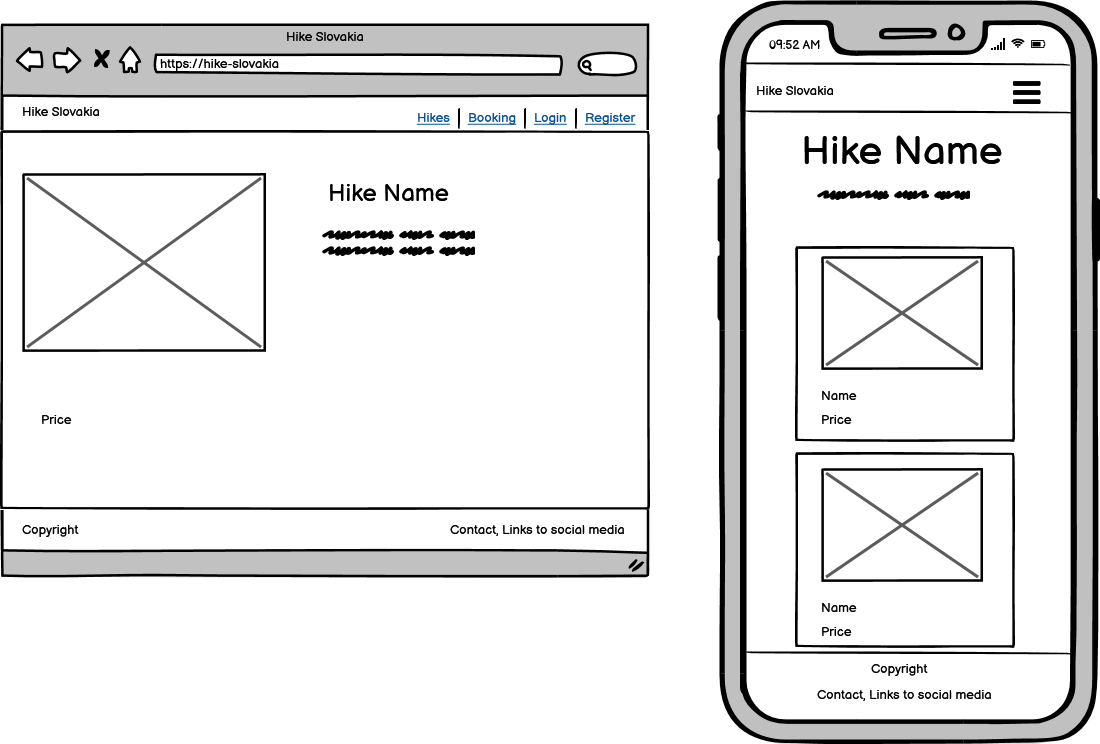
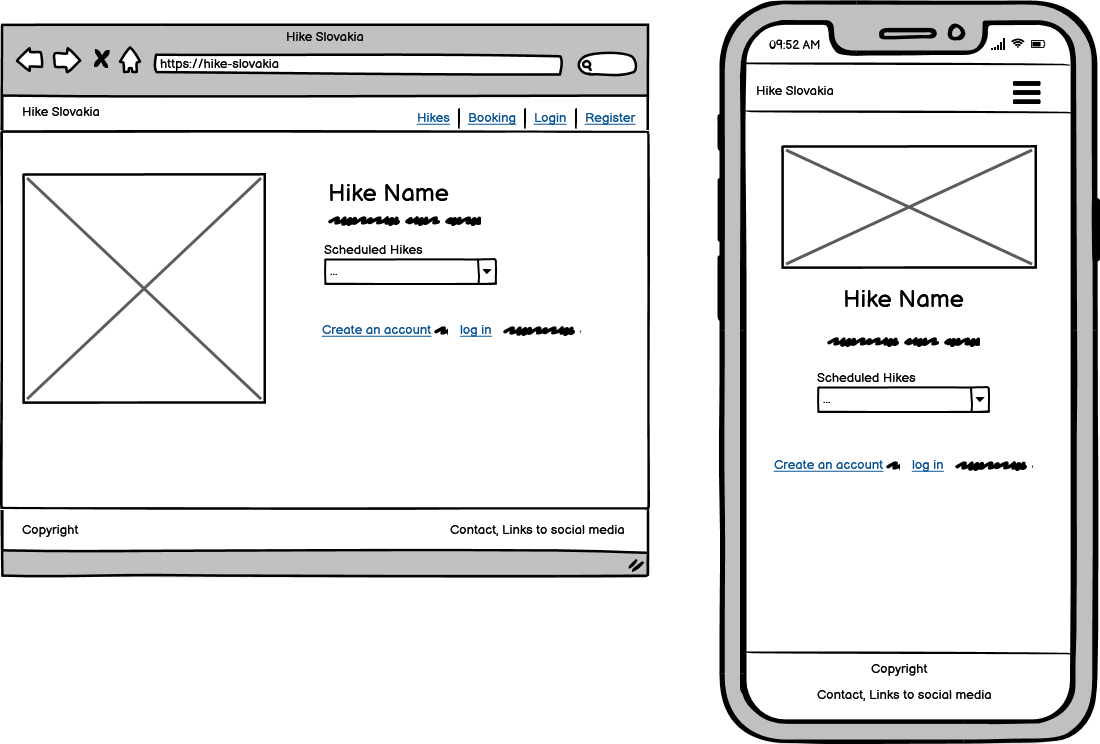
Update README.md - technologies used, upload all wireframes

diff --git a/README.md b/README.md
@@ -5,7 +5,7 @@ The app was built as my fourth milestone project for Diploma in Full Stack Softw
 
 Hike Slovakia is a multi-page eCommerce web application for both visitors of and people living in Slovakia who wish to explore the country and its beautiful hiking destinations. The website offers its users a chance to book onto guided hikes in the region.
 
-You can view the live website [here]( "Hike Slovakia"). 
+You can view the live website [here](https://hike-slovakia.herokuapp.com/ "Hike Slovakia"). 
 
 ***
 ## User Experience (UX)
@@ -34,16 +34,18 @@ As a guest / not logged in user, I want to be able to:
 * find more information about the company, so that I can understand more about what they are doing.
 * view an offering of all guided hikes posted on the website.
 * find general details of any guided hike, as well as find out what dates they are scheduled on.
-* start the booking process of the scheduled hike I am interested in.
-* select the number of people I am booking the hike for.
 * contact the business owner / administrator, so that I can ask any specific questions and get more information.
 * view the website clearly on multiple devices, including my mobile device, so that I can achieve my other goals on the go.
 * register on the website so that I can book / pay for a hike I am interested in.
 
 As a registered / logged in user, in addition to the above, I want to be able to:
 * log into my account so that I can use the website’s services.
-* securely pay for the scheduled hike(s) I choose to book.
-* receive a confirmation email after I successfully book my hike(s).
+* select the number of people I am booking a selected hike for.
+* start the booking process of the scheduled hike I am interested in.
+* securely pay for the scheduled hike I choose to book.
+* receive a confirmation email after I successfully book my hike.
+* view my profile - including my personal information as well as a list of hike bookings I made in the past.
+* update my personal information.
 * log out.
 
 As an admin, I want to be able to:
@@ -75,8 +77,26 @@ As an admin, I want to be able to:
 * Hike Detail page
 ![classes page wireframe](docs/wireframes/hike-detail.png)
 
+* Hike Detail page - logged in user only
+![classes page wireframe](docs/wireframes/hike-detail-logged-in.png)
+
+* Hike Detail page - admin user only
+![classes page wireframe](docs/wireframes/hike-detail-admin.png)
+
+* Review Booking page - logged in user only
+![classes page wireframe](docs/wireframes/review-booking.png)
+
+* Booking Confirmation page - logged in user only
+![classes page wireframe](docs/wireframes/booking-confirmation.png)
+
+* Checkout page - logged in user only
+![classes page wireframe](docs/wireframes/checkout.png)
+
 * Profile page
 ![profile page wireframe](docs/wireframes/profile.png)
+
+* Add a hike page - admin user only
+![profile page wireframe](docs/wireframes/add-hike.png)
 
 * Register page
 ![register page wireframe](docs/wireframes/register.png)
@@ -101,6 +121,8 @@ As an admin, I want to be able to:
 * Trello Board has been used since the beginning of development to track progress, capture ideas, and make notes (screenshot from early on in the process)
 ![trello board](docs/readme-img/trello-board.jpg)
 
+* Changes to design - layout of the website & pages was designed in advance, and wireframes were followed during deveopment, except for some minor changes; the only major one being adding a list of past bookings to a user's profile page.
+
 ***
 ## Database Design
 
@@ -116,7 +138,33 @@ As an admin, I want to be able to:
 
 ### Languages Used
 
+* HTML5
+* CSS3
+* JavaScript
+* Python3
+
 ### Frameworks, Libraries & Programs Used
+
+* [Django](https://www.djangoproject.com/) - open-source, Python-based web framework that follows the model–template–views architectural pattern
+* Django AllAuth - to provide enhanced user account management functionality
+* [Heroku](https://heroku.com/) - to deploy the live site
+* Heroku PostgreSQL - to host the database
+* [WhiteNoise](http://whitenoise.evans.io/en/stable/django.html) - mainly for serving static files
+* [Cloudinary](https://cloudinary.com/) - to upload, store, manage, and deliver images
+* [Bootstrap](https://getbootstrap.com/docs/4.6/getting-started/introduction/) - framework for building responsive, mobile-first sites
+* [Font Awesome](https://fontawesome.com/) - to add icons to the site
+* [pip](https://pip.pypa.io/en/stable/) - to install dependencies for the site
+* [Git](https://git-scm.com/) - version control
+* [GitHub](https://github.com/) - to store the code for this project
+* [GitPod](https://www.gitpod.io/) - virtual IDE used to build this site
+* [jQuery](https://jquery.com/) - JavaScript library
+* [Google DevTools](https://developer.chrome.com/docs/devtools/) - invaluable during development
+* [Trello](https://www.trello.com/) - to project manage, Kanban-style
+* [Balsamiq](https://balsamiq.com/wireframes/) - to create wireframes
+* [DbVisualizer](https://www.dbvis.com/) - to visualize database data
+* [https://imagecompressor.com/](https://imagecompressor.com/) - to compress image files
+* [https://favicon.io/](https://favicon.io/favicon-converter/) - to generate favicon
+* [amiresponsive](https://ui.dev/amiresponsive?url=https://yoga-hub.herokuapp.com/home)
 
 ***
 ## Testing
